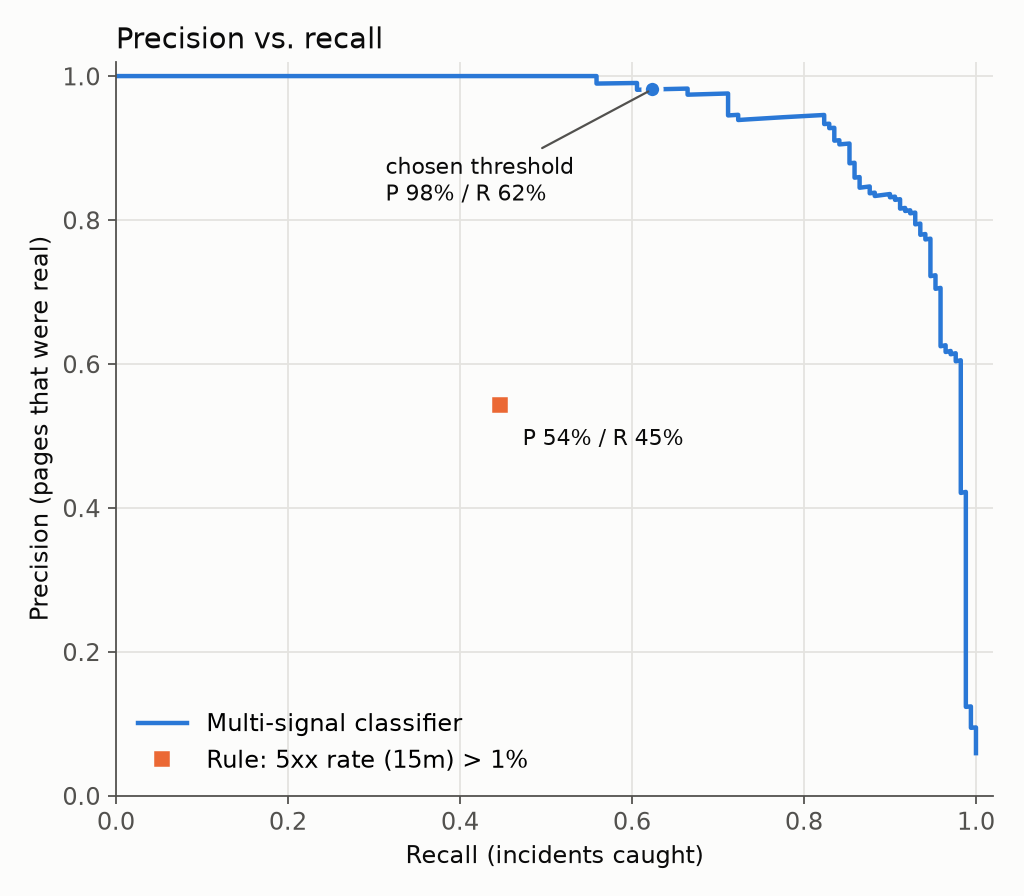
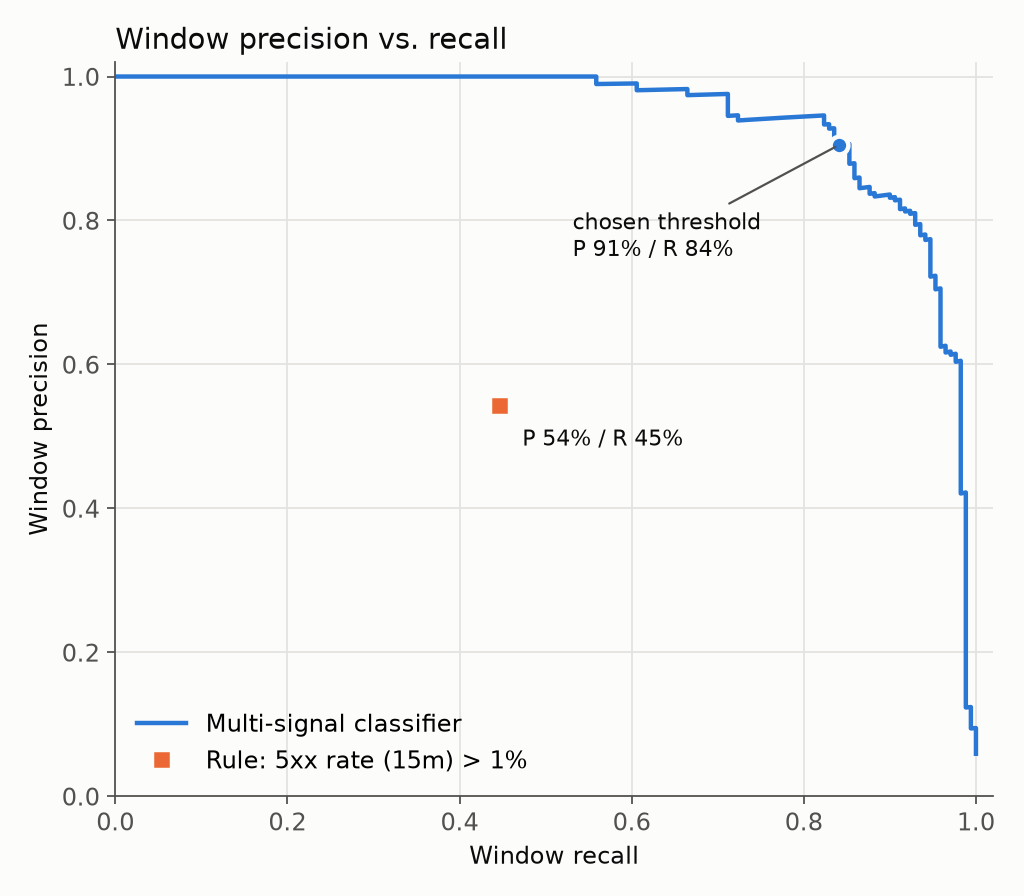
Clarify window metrics and expose alert timing limits (#1)

diff --git a/plots.py b/plots.py
@@ -24,9 +24,9 @@ def precision_recall_vs_threshold(r: Results, path: str):
     m = window_metrics(r.y, r.scores >= r.threshold)
     fig, ax = plt.subplots(figsize=(9, 4.8))
     ax.plot(r.thresholds, r.precisions[:-1], "--", color=BLUE, lw=2,
-            label="Precision (pages that were real)")
+            label="Window precision")
     ax.plot(r.thresholds, r.recalls[:-1], "-", color=ORANGE, lw=2,
-            label="Recall (incidents caught)")
+            label="Window recall")
     ax.axvline(r.threshold, color=MUTED, ls=":", lw=1.5)
     for val, c in ((m["precision"], BLUE), (m["recall"], ORANGE)):
         ax.plot([r.threshold], [val], "o", color=c, ms=8, mec=SURFACE, mew=2)
@@ -39,11 +39,11 @@ def precision_recall_vs_threshold(r: Results, path: str):
     ax.set_ylabel("Score")
     _grid(ax)
     ax.legend(loc="center left", frameon=False)
-    ax.set_title("checkout on-call: precision and recall vs. alert threshold",
+    ax.set_title("checkout: window precision and recall vs. alert threshold",
                  loc="left", color=INK, fontsize=13)
-    fig.text(0.01, 0.01, "Simulated data: 10 days of 5-min windows held out, "
-             f"{r.y.sum()} incident windows of {len(r.y)}. Moving the line right = fewer, "
-             "more trustworthy pages, more missed incidents.", color=MUTED, fontsize=8.5)
+    fig.text(0.01, 0.01, f"10 held-out days: {r.y.sum()}/{len(r.y)} incident windows. "
+             "Higher thresholds alert on fewer windows and miss more incident time.",
+             color=MUTED, fontsize=8.5)
     fig.tight_layout(rect=(0, 0.04, 1, 1))
     fig.savefig(path, dpi=160)
     plt.close(fig)
@@ -65,11 +65,11 @@ def precision_vs_recall(r: Results, path: str):
     ax.annotate(f"P {b['precision']:.0%} / R {b['recall']:.0%}", (b["recall"], b["precision"]),
                 xytext=(10, -18), textcoords="offset points", fontsize=10, color=INK)
     ax.set_xlim(0, 1.02); ax.set_ylim(0, 1.02)
-    ax.set_xlabel("Recall (incidents caught)")
-    ax.set_ylabel("Precision (pages that were real)")
+    ax.set_xlabel("Window recall")
+    ax.set_ylabel("Window precision")
     _grid(ax)
     ax.legend(loc="lower left", frameon=False)
-    ax.set_title("Precision vs. recall", loc="left", color=INK, fontsize=13)
+    ax.set_title("Window precision vs. recall", loc="left", color=INK, fontsize=13)
     fig.tight_layout()
     fig.savefig(path, dpi=160)
     plt.close(fig)

diff --git a/tests/test_evaluate.py b/tests/test_evaluate.py
@@ -28,6 +28,40 @@ def test_incident_metrics_counts_episodes_not_windows():
     assert (m["incidents"], m["caught"]) == (2, 1)
     assert (m["alert_episodes"], m["false_alert_episodes"]) == (2, 1)
     assert m["precision"] == 0.5 and m["recall"] == 0.5
+    assert m["mean_detection_delay_minutes"] == 5
+    assert m["alert_active_minutes"] == 15
+    assert m["false_alert_minutes"] == 10
+
+
+def test_always_active_alert_has_perfect_overlap_but_exposes_false_alert_time():
+    y = np.array([0, 0, 1, 0, 0, 1, 0])
+    m = incident_metrics(y, np.ones(7))
+    assert m["precision"] == 1 and m["recall"] == 1
+    assert m["alert_episodes"] == 1 and m["false_alert_episodes"] == 0
+    assert m["mean_detection_delay_minutes"] == 0
+    assert m["alert_active_minutes"] == 35
+    assert m["false_alert_minutes"] == 25
+
+
+def test_detection_delay_includes_alerts_in_last_incident_window():
+    m = incident_metrics(np.array([0, 1, 1, 1, 0]), np.array([0, 0, 0, 1, 0]))
+    assert m["recall"] == 1
+    assert m["mean_detection_delay_minutes"] == 10
+    assert m["alert_active_minutes"] == 5
+    assert m["false_alert_minutes"] == 0
+
+
+@pytest.mark.parametrize("y, pred, active_minutes", [
+    ([1, 1, 0], [0, 0, 0], 0),
+    ([0, 0, 0], [1, 1, 1], 15),
+    ([], [], 0),
+])
+def test_no_caught_incidents_have_no_detection_delay(y, pred, active_minutes):
+    m = incident_metrics(np.array(y), np.array(pred))
+    assert m["mean_detection_delay_minutes"] is None
+    assert m["caught"] == 0
+    assert m["alert_active_minutes"] == active_minutes
+    assert m["false_alert_minutes"] == active_minutes
 
 
 def test_choose_threshold_lowest_reaching_target():

diff --git a/evaluate.py b/evaluate.py
@@ -82,15 +82,19 @@ def window_metrics(y: np.ndarray, pred: np.ndarray) -> dict:
 
 
 def incident_metrics(y: np.ndarray, pred: np.ndarray) -> dict:
-    """What on-call cares about.
+    """Incident overlap, detection delay and alert duration for 5-minute windows.
 
     Recall: share of incidents with at least one alerted window.
     Precision: share of alert episodes (runs of consecutive alerted windows)
-    that overlap a real incident.
+    that overlap a real incident. Overlap alone rewards alerts that never clear.
+    Mean detection delay is measured from incident onset for caught incidents
+    only (None if none are caught); an already-active alert has zero delay.
     """
     pred = pred.astype(bool)
     incidents, alerts = _runs(y == 1), _runs(pred)
-    caught = sum(pred[a:b].any() for a, b in incidents)
+    delays = [int(np.flatnonzero(pred[a:b])[0]) * 5
+              for a, b in incidents if pred[a:b].any()]
+    caught = len(delays)
     real_alerts = sum((y[a:b] == 1).any() for a, b in alerts)
     return {
         "precision": real_alerts / len(alerts) if alerts else 0.0,
@@ -99,4 +103,7 @@ def incident_metrics(y: np.ndarray, pred: np.ndarray) -> dict:
         "caught": int(caught),
         "alert_episodes": len(alerts),
         "false_alert_episodes": len(alerts) - int(real_alerts),
+        "mean_detection_delay_minutes": float(np.mean(delays)) if delays else None,
+        "alert_active_minutes": int(pred.sum()) * 5,
+        "false_alert_minutes": int((pred & (y == 0)).sum()) * 5,
     }

diff --git a/main.py b/main.py
@@ -34,12 +34,20 @@ def main():
         ("Rule: 5xx (15m) > 1%", window_metrics(r.y, r.rule), incident_metrics(r.y, r.rule)),
     ]
     print(f"Test set: {len(r.y)} windows, {r.y.sum()} incident windows\n")
-    print(f"{'':24} {'per window':>22} {'per incident':>30}")
+    print(f"{'':24} {'per window':>22} {'episodes / incidents':>30}")
     print(f"{'':24} {'P':>6} {'R':>6} {'false':>8} {'P':>8} {'R':>6} {'caught':>9} {'false':>6}")
     for name, w, i in rows:
         print(f"{name:24} {w['precision']:>6.0%} {w['recall']:>6.0%} {w['false_alarm_windows']:>8}"
               f" {i['precision']:>8.0%} {i['recall']:>6.0%}"
               f" {i['caught']:>4}/{i['incidents']:<4} {i['false_alert_episodes']:>6}")
+
+    print("\nTiming (5-minute windows; delay covers caught incidents only):")
+    for name, _, i in rows:
+        delay = i["mean_detection_delay_minutes"]
+        delay_text = "N/A" if delay is None else f"{delay:.1f} min"
+        print(f"{name}: mean detection delay {delay_text}, "
+              f"alert active {i['alert_active_minutes']} min "
+              f"({i['false_alert_minutes']} min outside incidents)")
 
     precision_recall_vs_threshold(r, "figures/precision_recall_vs_threshold.png")
     precision_vs_recall(r, "figures/precision_vs_recall.png")

diff --git a/README.md b/README.md
@@ -6,7 +6,7 @@ measure its precision and recall, then choose the threshold on purpose instead o
 This repo applies the precision/recall tools from chapter 3 of Géron's *Hands-On Machine Learning*
 to alerting on a **simulated** Kubernetes service, and adapts them to how alerting data behaves.
 
-![Precision and recall vs. alert threshold](figures/precision_recall_vs_threshold.png)
+![Window precision and recall vs. alert threshold](figures/precision_recall_vs_threshold.png)
 
 ## The scenario (all data is simulated)
 
@@ -22,12 +22,12 @@ as with `decision_function` in the book. The default threshold is the lowest one
 
 ## Results on the 10 test days
 
-|  | Precision (window) | Recall (window) | False-alarm windows | Precision (incident) | Recall (incident) | False alert episodes |
+|  | Precision (window) | Recall (window) | False-alarm windows | Precision (alert episode) | Recall (incident) | False alert episodes |
 |---|---|---|---|---|---|---|
 | Classifier, threshold −0.43 | 91% | 84% | 15 | 70% | 16 / 17 | 11 |
 | Rule: 5xx rate over 15 min > 1% | 54% | 45% | 64 | 41% | 13 / 17 | 24 |
 
-![Precision vs. recall](figures/precision_vs_recall.png)
+![Window precision vs. recall](figures/precision_vs_recall.png)
 
 The single-metric rule sits well inside the classifier's curve: several signals together give a better model,
 not just a better threshold.
@@ -47,8 +47,23 @@ The same predictions look different depending on what counts as a positive:
   consecutive alerted windows, and it's a false alert if it overlaps no incident.
 
 At the chosen threshold, the classifier catches 16 of 17 test incidents even though per-window recall is 84%.
-But per-incident precision drops to 70%, because the false alarms are short, separate blips: 15 false windows
-make 11 separate false pages. In practice, a pending duration (Prometheus `for:`) would suppress many of them.
+But alert-episode precision drops to 70%, because the false alarms are short, separate blips: 15 false windows
+make 11 separate false alert episodes. These episodes do not model actual notification delivery.
+
+Overlap scores alone can be misleading: an alert that stays active throughout the test gets 100% episode
+precision and incident recall whenever there is at least one incident. An alert in the last window of an
+incident also counts as a catch. The evaluation therefore reports timing alongside overlap:
+
+|  | Mean detection delay (min) | Alert-active time (min) | Alert-active time outside incidents (min) |
+|---|---|---|---|
+| Classifier, threshold −0.43 | 0.9 | 790 | 75 |
+| Rule: 5xx rate over 15 min > 1% | 10.8 | 700 | 320 |
+
+Detection delay runs from incident onset to its first alerted window, measured in 5-minute steps.
+The mean covers caught incidents only; if none are caught, it is reported as `N/A`. An alert already active
+at incident onset has zero delay. Read delay alongside incident recall, since missed incidents are excluded.
+Alert-active time sums all alerted windows; time outside incidents exposes persistent false alerting even
+when one long alert episode overlaps real incidents. These metrics assume contiguous 5-minute windows.
 
 ## Run it
 
